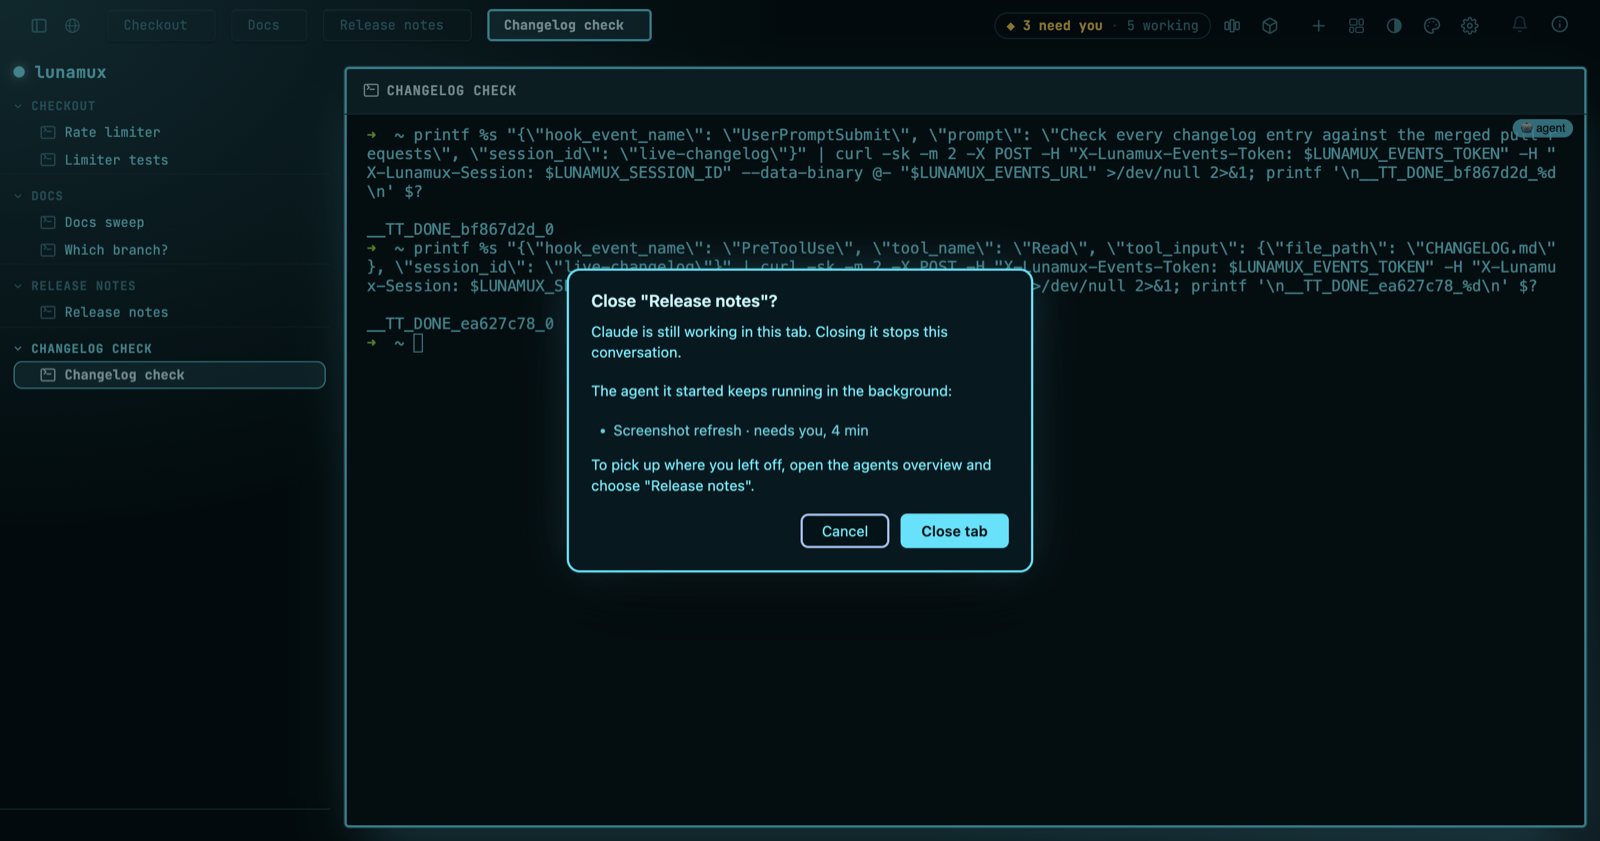
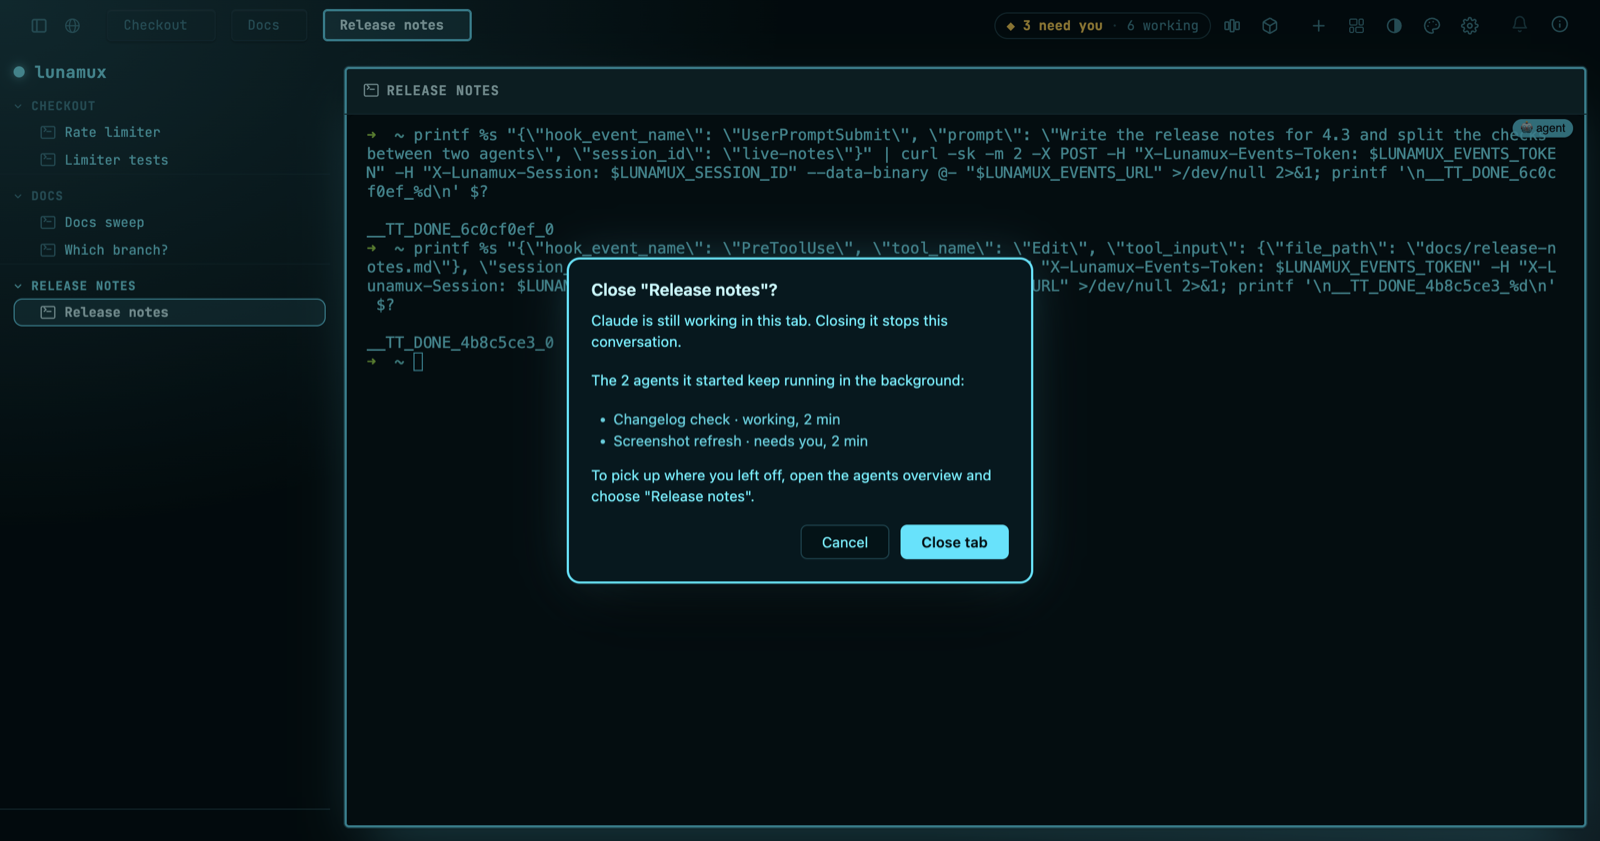
Answer round 1: a session follows its pane, the header says what enter does, restarts drop background tabs
A session's background flag now follows its pane on every poll, so a pane moved into or out of a
background tab is hidden from, or found by, search and jumped to or peeked correctly.

A task whose own session has ended no longer reads "jump": the header's label, its peek target and
enter all follow the same rule (open or resume when the own session exists but is not live).

A server restart closes background tabs (the agents in them ended with the old process) and keeps
their ids reserved; create_tab's description and docs/tasks.md say the opening agent closes its own
background tab. docs/tasks.md no longer says a restart forgets a task's own session: it resolves to
the ended record and enter resumes it.

Adds the OverviewBackingViewModel test for the shared tab list, removes the dead
backgroundSessionIds and the unused close-with-question path in LayoutViewModel and
AppBackingViewModel, corrects the TabCloseGuard KDoc, drives the live seed with create_task then
create_window(background, taskId) twice, and re-shoots the close dialog with the plural wording.

diff --git a/client/src/jvmTest/kotlin/se/soderbjorn/lunamux/client/viewmodel/OverviewBackingViewModelBackgroundTest.kt b/client/src/jvmTest/kotlin/se/soderbjorn/lunamux/client/viewmodel/OverviewBackingViewModelBackgroundTest.kt
@@ -1,0 +1,67 @@
+/**
+ * Checks that the tab list [OverviewBackingViewModel] builds for the phone and tablet overview
+ * leaves out background tabs while it still shows a hidden tab that is the active one.
+ *
+ * The view model reads its layout from a [WindowSocket]; the test feeds it a minimal fake whose
+ * layout it can replace, collects [OverviewBackingViewModel.run] on an unconfined dispatcher and
+ * reads [OverviewBackingViewModel.stateFlow].
+ *
+ * @see OverviewBackingViewModel
+ * @see se.soderbjorn.lunamux.listedTabs
+ */
+package se.soderbjorn.lunamux.client.viewmodel
+
+import kotlinx.coroutines.Dispatchers
+import kotlinx.coroutines.ExperimentalCoroutinesApi
+import kotlinx.coroutines.flow.MutableSharedFlow
+import kotlinx.coroutines.flow.MutableStateFlow
+import kotlinx.coroutines.flow.SharedFlow
+import kotlinx.coroutines.flow.StateFlow
+import kotlinx.coroutines.launch
+import kotlinx.coroutines.runBlocking
+import se.soderbjorn.lunamux.TabConfig
+import se.soderbjorn.lunamux.WindowCommand
+import se.soderbjorn.lunamux.WindowConfig
+import se.soderbjorn.lunamux.WindowEnvelope
+import se.soderbjorn.lunamux.client.WindowSocket
+import kotlin.test.Test
+import kotlin.test.assertEquals
+
+/** A socket that holds one layout and never sends anything. */
+private class FixedSocket(layout: WindowConfig) : WindowSocket {
+    override val config: StateFlow<WindowConfig?> = MutableStateFlow(layout)
+    override val states: StateFlow<Map<String, String?>> = MutableStateFlow(emptyMap())
+    override val envelopes: SharedFlow<WindowEnvelope> = MutableSharedFlow()
+    override val connected: StateFlow<Boolean> = MutableStateFlow(true)
+    override suspend fun awaitInitialConfig() {}
+    override suspend fun awaitSessionReady() {}
+    override suspend fun send(command: WindowCommand) {}
+    override suspend fun close() {}
+}
+
+class OverviewBackingViewModelBackgroundTest {
+
+    private fun tabsShown(layout: WindowConfig): List<String> = runBlocking {
+        val vm = OverviewBackingViewModel(FixedSocket(layout))
+        val job = launch(@OptIn(ExperimentalCoroutinesApi::class) Dispatchers.Unconfined) { vm.run() }
+        val ids = vm.stateFlow.value.tabs.map { it.id }
+        job.cancel()
+        ids
+    }
+
+    private val tabs = listOf(
+        TabConfig(id = "a", title = "Docs"),
+        TabConfig(id = "b", title = "Agent work", isBackground = true),
+        TabConfig(id = "c", title = "Scratch", isHidden = true),
+    )
+
+    @Test
+    fun `the tab list leaves out a background tab and a hidden tab that is not active`() {
+        assertEquals(listOf("a"), tabsShown(WindowConfig(tabs = tabs, activeTabId = "a")))
+    }
+
+    @Test
+    fun `the tab list keeps a hidden tab while it is the active one but never a background tab`() {
+        assertEquals(listOf("a", "c"), tabsShown(WindowConfig(tabs = tabs, activeTabId = "c")))
+    }
+}

diff --git a/server/src/main/kotlin/se/soderbjorn/lunamux/WindowState.kt b/server/src/main/kotlin/se/soderbjorn/lunamux/WindowState.kt
@@ -354,10 +354,14 @@ object WindowState {
             }
         }
 
-        fun rebuildTab(tab: TabConfig): TabConfig {
+        fun trackTabId(tab: TabConfig) {
             // Same nonce-aware numeric extraction as [trackNodeId].
             tab.id.removePrefix("t").substringBefore('-').toLongOrNull()
                 ?.let { if (it > maxTabId) maxTabId = it }
+        }
+
+        fun rebuildTab(tab: TabConfig): TabConfig {
+            trackTabId(tab)
             val rebuiltPanes = tab.panes.mapNotNull { p ->
                 val rebuilt = rebuildLeaf(p.leaf) ?: return@mapNotNull null
                 val box = PaneGeometry.normalize(p.x, p.y, p.width, p.height)
@@ -376,11 +380,20 @@ object WindowState {
         val rebuiltWorlds = loaded.worlds.map { world ->
             world.id.removePrefix("w").substringBefore('-').toLongOrNull()
                 ?.let { if (it > maxWorldId) maxWorldId = it }
-            val rebuiltTabs = world.tabs.map { rebuildTab(it) }
+            // A background tab exists for the agent that opened it, and that agent died with the old
+            // process. Rebuilt, it would be a shell nobody can see or close, so it is dropped; its
+            // ids are still counted so none is handed out again.
+            val rebuiltTabs = world.tabs.mapNotNull { tab ->
+                if (tab.isBackground) {
+                    trackTabId(tab)
+                    tab.panes.forEach { trackNodeId(it.leaf.id) }
+                    null
+                } else rebuildTab(tab)
+            }
             val tabIdSet = rebuiltTabs.mapTo(HashSet()) { it.id }
             world.copy(
                 tabs = rebuiltTabs,
-                activeTabId = world.activeTabId?.takeIf { id -> id in tabIdSet && rebuiltTabs.none { it.id == id && it.isBackground } },
+                activeTabId = world.activeTabId?.takeIf { id -> id in tabIdSet },
             )
         }
 
@@ -545,19 +558,6 @@ object WindowState {
      */
     fun isBackgroundTab(tabId: String): Boolean = synchronized(this) {
         allTabs(_config.value).any { it.id == tabId && it.isBackground }
-    }
-
-    /**
-     * The terminal session ids of every pane that sits in a background tab.
-     *
-     * Called by the agent session tracker to mark the records of sessions that run out of sight.
-     *
-     * @return the session ids; panes without a session (file browsers, say) contribute none.
-     */
-    fun backgroundSessionIds(): Set<String> = synchronized(this) {
-        allTabs(_config.value).filter { it.isBackground }
-            .flatMap { tab -> tab.panes.mapNotNull { it.leaf.sessionId.takeIf { id -> id.isNotEmpty() } } }
-            .toSet()
     }
 
     /**

diff --git a/client/src/commonMain/kotlin/se/soderbjorn/lunamux/client/viewmodel/AgentsOverviewBackingViewModel.kt b/client/src/commonMain/kotlin/se/soderbjorn/lunamux/client/viewmodel/AgentsOverviewBackingViewModel.kt
@@ -312,9 +312,11 @@ class AgentsOverviewBackingViewModel(
      *   other labels as the file gave them, paused, done, with empty counts left out; empty when
      *   every session needs the user.
      * @property expanded whether every session shows rather than only those that need the user or work.
-     * @property jumpRecordId the record of the live session that most needs the person, which ↵ on
-     *   the header jumps to: the ◆ that has waited longest, else the working session with the
-     *   freshest sign of life; null when no session of the task is open.
+     * @property jumpRecordId the record of the live session ↵ on the header jumps to: the task's own
+     *   session when it has one and its pane is open; otherwise (a task with none) the ◆ that has
+     *   waited longest, else the working session with the freshest sign of life. Null when no such
+     *   session is open, including when the own session has ended: the header then offers `open` or
+     *   `resume`, never `jump`.
      * @property hasOpen whether the task file gives an `open` action: ↵ on the header runs it when
      *   no session is open, and the header always offers it as its own `open` control.
      * @property activityMillis the latest sign of life among the working sessions (see
@@ -1349,14 +1351,16 @@ class AgentsOverviewBackingViewModel(
         val graced = (ended || settled) && inGrace(recency, nowMillis)
         return TaskUnit(
             t, runs, panel, rank, since, ended, settled, recency, graced,
-            if (leadLive) lead!!.id else jump?.session?.id, inNow, started,
+            // With an own session the header follows it alone: a task whose own session has ended
+            // offers open or resume, even while another member runs.
+            if (lead != null) lead.id.takeIf { leadLive } else jump?.session?.id, inNow, started,
             lead?.id, leadLive, leadLive && lead!!.background,
         )
     }
 
     /** The record behind [row] that peek and inspection ask the server about, or null when there is none. */
     private fun recordIdOf(row: Row, tasks: Map<String, Task>): String? = when {
-        row.kind == RowKind.TASK -> tasks[row.taskId]?.jumpRecordId
+        row.kind == RowKind.TASK -> tasks[row.taskId]?.let { it.leadRecordId ?: it.jumpRecordId }
         row.kind == RowKind.SESSION && !row.unhosted -> row.id
         else -> null
     }

diff --git a/client/src/commonMain/kotlin/se/soderbjorn/lunamux/client/viewmodel/LayoutViewModel.kt b/client/src/commonMain/kotlin/se/soderbjorn/lunamux/client/viewmodel/LayoutViewModel.kt
@@ -10,21 +10,16 @@
 package se.soderbjorn.lunamux.client.viewmodel
 
 import se.soderbjorn.lunamux.WindowCommand
-import se.soderbjorn.lunamux.client.TabCloseCheck
 import se.soderbjorn.lunamux.client.WindowSocket
-import se.soderbjorn.lunamux.client.WindowStateRepository
-import se.soderbjorn.lunamux.client.closeTabAsking
 
 /**
  * Routes layout commands (tabs, panes, geometry, focus) to the server
  * via [windowSocket].
  *
  * @param windowSocket the live `/window` WebSocket for sending commands.
- * @param windowState where the layout, sessions and tasks are read from when a tab close asks first.
  */
 internal class LayoutViewModel(
     private val windowSocket: WindowSocket,
-    private val windowState: WindowStateRepository? = null,
 ) {
     /** Tell the server to switch to tab [tabId]. */
     suspend fun setActiveTab(tabId: String) {
@@ -41,23 +36,9 @@ internal class LayoutViewModel(
         windowSocket.send(WindowCommand.AddTab)
     }
 
-    /**
-     * Close tab [tabId] and all panes within it.
-     *
-     * With [ask], a tab that has an agent working in it is closed only if [ask] answers true for
-     * the question the tab close guard builds; without it (a screen that asks for itself) the tab
-     * closes at once.
-     *
-     * @param tabId the tab to close.
-     * @param ask shows the question and returns whether the person chose to close, or null to close without asking.
-     * @return true when the close was sent, false when the person kept the tab.
-     * @see se.soderbjorn.lunamux.client.TabCloseGuard
-     */
-    suspend fun closeTab(tabId: String, ask: (suspend (TabCloseCheck) -> Boolean)? = null): Boolean {
-        val state = windowState
-        if (ask != null && state != null) return closeTabAsking(state, tabId, { windowSocket.send(it) }, ask)
+    /** Close tab [tabId] and all panes within it. */
+    suspend fun closeTab(tabId: String) {
         windowSocket.send(WindowCommand.CloseTab(tabId = tabId))
-        return true
     }
 
     /** Rename tab [tabId] to [title]. */

diff --git a/client/src/commonMain/kotlin/se/soderbjorn/lunamux/client/TabCloseGuard.kt b/client/src/commonMain/kotlin/se/soderbjorn/lunamux/client/TabCloseGuard.kt
@@ -5,7 +5,7 @@
  * [TabCloseGuard.check] says whether that would happen and, if so, what the person should be told:
  * which agent stops, which agents the closed tab's conversation started that keep running in
  * background tabs, and how to pick the work up again. The screens draw the question; this file
- * holds the facts and the exact words, so every screen asks the same thing.
+ * holds the facts and the exact words, so every screen that asks says the same thing.
  *
  * The check is for closes a person starts (the tab's × in the strip, the tab list's close). An
  * agent closing a tab through MCP does not ask, and closing a single pane is not checked.
@@ -79,7 +79,8 @@ data class TabCloseCheck(
 /**
  * Decides whether closing a tab needs the person's say-so.
  *
- * Used by [closeTabAsking], which every person-initiated tab close goes through.
+ * Used by [closeTabAsking], which the web's person-initiated tab closes go through. The Android
+ * screens close a tab with [PaneActions.closeTab] and do not ask yet.
  *
  * @see TabCloseCheck
  */
@@ -144,8 +145,8 @@ object TabCloseGuard {
  * Close [tabId] after asking, when the check says a working agent would stop.
  *
  * A tab with nothing working in it closes at once. Otherwise [ask] shows the question and the
- * tab closes only if it answers true. Called by every screen that closes a tab for a person:
- * the web tab strip and the 3D view, and any screen that wants the same question.
+ * tab closes only if it answers true. Called by the web tab strip and the web 3D view's remove,
+ * and by any screen that wants the same question.
  *
  * @param windowState where the layout, sessions and tasks are read from.
  * @param tabId the tab to close.

diff --git a/client/src/commonMain/kotlin/se/soderbjorn/lunamux/client/viewmodel/AppBackingViewModel.kt b/client/src/commonMain/kotlin/se/soderbjorn/lunamux/client/viewmodel/AppBackingViewModel.kt
@@ -47,7 +47,7 @@ class AppBackingViewModel(
     private val windowState: WindowStateRepository,
     private val settingsPersister: SettingsPersister? = null,
 ) {
-    private val layout = LayoutViewModel(windowSocket, windowState)
+    private val layout = LayoutViewModel(windowSocket)
     private val settings = SettingsViewModel(settingsPersister)
     private val sessionState = SessionStateViewModel(windowSocket, windowState)
 
@@ -416,23 +416,9 @@ class AppBackingViewModel(
     @Throws(CancellationException::class, Exception::class)
     suspend fun addTab() = layout.addTab()
 
-    /** Close tab [tabId] and all panes within it, without asking. */
+    /** Close tab [tabId] and all panes within it. */
     @Throws(CancellationException::class, Exception::class)
-    suspend fun closeTab(tabId: String) {
-        layout.closeTab(tabId)
-    }
-
-    /**
-     * Close tab [tabId] after asking when an agent is working in it.
-     *
-     * @param tabId the tab to close.
-     * @param ask shows the question the guard built and returns whether the person chose to close.
-     * @return true when the close was sent, false when the person kept the tab.
-     * @see se.soderbjorn.lunamux.client.TabCloseGuard
-     */
-    @Throws(CancellationException::class, Exception::class)
-    suspend fun closeTab(tabId: String, ask: suspend (se.soderbjorn.lunamux.client.TabCloseCheck) -> Boolean): Boolean =
-        layout.closeTab(tabId, ask)
+    suspend fun closeTab(tabId: String) = layout.closeTab(tabId)
 
     /** Rename tab [tabId] to [title]. */
     @Throws(CancellationException::class, Exception::class)

diff --git a/server/src/test/kotlin/se/soderbjorn/lunamux/mcp/McpTaskMetaTest.kt b/server/src/test/kotlin/se/soderbjorn/lunamux/mcp/McpTaskMetaTest.kt
@@ -204,6 +204,26 @@ class McpTaskMetaTest {
     }
 
     @Test
+    fun `after a server restart the own session resolves to its ended record, so enter resumes it`() {
+        session("boss")
+        val id = create("Work", "[\"boss\"]")["taskId"]!!.jsonPrimitive.content
+        val record = taskInState(id).leadRecordId
+        assertNotNull(record)
+
+        // A restart: the tracker ends the records the old process left open and loads them again.
+        now += 60_000
+        var next = 100
+        val restarted = AgentSessionTracker(
+            repo, gitInfo = { GitInfo() }, clock = { now }, newId = { "n${++next}" },
+        ).also { it.start() }
+        val reopened = TaskIndex(repo, restarted, files, leafOfSession = { null }, clock = { now })
+
+        val after = reopened.state.value.tasks.single { it.id == id }
+        assertEquals(record, after.leadRecordId, "the ended record is found by the pane id the task remembers")
+        assertEquals("ended", restarted.snapshot().single { it.id == record }.state)
+    }
+
+    @Test
     fun `a task's start is the earliest session start, stamped once and never moved`() {
         session("early"); session("late")
         val early = tracker.openRecordOf("early")!!.createdAt

diff --git a/client/src/commonTest/kotlin/se/soderbjorn/lunamux/client/viewmodel/AgentsOverviewTasksViewModelTest.kt b/client/src/commonTest/kotlin/se/soderbjorn/lunamux/client/viewmodel/AgentsOverviewTasksViewModelTest.kt
@@ -1459,6 +1459,9 @@ class AgentsOverviewTasksViewModelTest {
         )
         vm.open()
         vm.select("task:g1")
+        val header = vm.state.rows.first { it.id == "task:g1" }
+        assertEquals("open", header.actionLabel, "the label says what ↵ does, not jump")
+        assertFalse(header.isLive)
         vm.activateSelected()
         assertEquals(listOf<WindowCommand>(WindowCommand.OpenTask("g1")), sent)
     }
@@ -1473,6 +1476,11 @@ class AgentsOverviewTasksViewModelTest {
         )
         vm.open()
         vm.select("task:g1")
+        val header = vm.state.rows.first { it.id == "task:g1" }
+        assertEquals("resume", header.actionLabel, "the label says what ↵ does, not jump")
+        assertFalse(header.isLive)
+        assertEquals("lead", vm.state.tasks.getValue("g1").leadRecordId)
+        assertEquals(null, vm.state.tasks.getValue("g1").jumpRecordId)
         vm.activateSelected()
         assertEquals(listOf<WindowCommand>(WindowCommand.ResumeAgentSession("lead")), sent)
     }

diff --git a/server/src/test/kotlin/se/soderbjorn/lunamux/AgentSessionBackgroundTest.kt b/server/src/test/kotlin/se/soderbjorn/lunamux/AgentSessionBackgroundTest.kt
@@ -54,6 +54,21 @@ class AgentSessionBackgroundTest {
     }
 
     @Test
+    fun `a session follows its pane into and out of a background tab`() {
+        val t = tracker()
+        t.onPoll(listOf(pane("s1", background = true), pane("s2", background = false)))
+
+        now = 2_000
+        t.onPoll(listOf(pane("s1", background = false), pane("s2", background = true)))
+        assertEquals(mapOf("r1" to false, "r2" to true), t.summaries.value.associate { it.id to it.background })
+        assertFalse(repo.findAgentSessionById("r1")!!.background, "the stored record moves with the pane")
+        assertTrue(repo.findAgentSessionById("r2")!!.background)
+
+        val restarted = tracker(SettingsRepository(dbFile))
+        assertFalse(restarted.summaries.value.any { it.state != "ended" })
+    }
+
+    @Test
     fun `a background session needing the person is a needs-you summary like any other`() {
         val t = tracker()
         t.onPoll(listOf(pane("s1", background = true, state = "waiting")))

diff --git a/server/src/main/kotlin/se/soderbjorn/lunamux/mcp/McpWriteTools.kt b/server/src/main/kotlin/se/soderbjorn/lunamux/mcp/McpWriteTools.kt
@@ -700,8 +700,8 @@ fun registerMcpWriteTools(settingsRepo: SettingsRepository, taskIndex: TaskIndex
             "it. Targets the active world unless a worldId is given. With background: true the " +
             "tab is a background tab instead: it is never switched to, never shown in the tab " +
             "strip or the layout the person sees, and never takes focus; it is meant for an " +
-            "agent working out of sight. Close it with close_tab when done; the person can " +
-            "take it over from the agents overview.",
+            "agent working out of sight. Close it with close_tab when done (a server restart " +
+            "closes background tabs too); the person can take it over from the agents overview.",
         inputSchema = schemaObject(
             "title" to schemaString("Optional tab title."),
             "worldId" to schemaString("World to create the tab in (default: active world)."),

diff --git a/server/src/main/kotlin/se/soderbjorn/lunamux/AgentSessionTracker.kt b/server/src/main/kotlin/se/soderbjorn/lunamux/AgentSessionTracker.kt
@@ -217,6 +217,12 @@ class AgentSessionTracker(
                 rec = rec.copy(title = name)
                 put(rec)
             }
+            // A pane can change tabs (a move, a take over): the record follows the tab it is in now,
+            // or search and the overview's jump would treat it as still where it was.
+            if (rec.background != pane.background) {
+                rec = rec.copy(background = pane.background)
+                put(rec)
+            }
             if (rec.source != SOURCE_SCREEN) {
                 // Claude Code sends no event when a permission prompt is approved, so
                 // a long tool would keep the row at needs_you until it finished. The

diff --git a/docs/tasks.md b/docs/tasks.md
@@ -48,8 +48,10 @@ idle, **‖** paused, **✓** done.
   behaviour: ↵ jumps to the open session that most needs the person (the ◆ that has waited
   longest, else the working session with the freshest sign of life); with no open session it runs
   the task's `open` action, if it has one; with neither it expands or collapses the panel. The
-  session is remembered by the pane it ran in, so a server restart forgets it until an agent names
-  it again.
+  session is remembered by the pane it ran in. A server restart keeps it: the session is then an
+  ended one and ↵ resumes it. It is lost only once that session is older than the history the
+  overview loads (14 days, or beyond the newest 300 sessions); the task then has no own session
+  until an agent names one again.
 - **A task has a one-line status.** An agent sets it with `set_task_status` and the header shows it
   after the counts (`1 needs you · Notes drafted, waiting on the changelog check`). Line breaks
   become spaces, the ends are trimmed, and at most 120 characters are kept. An empty text clears it.
@@ -73,7 +75,9 @@ idle, **‖** paused, **✓** done.
   peek of its screen, and **⌘↵ takes the tab over**: it becomes an ordinary tab, the app switches to
   it and the session is searchable again. The footer reads "↵ peek · ⌘↵ take over". × closes it
   with the same confirmation as any session. A search never finds a background session while it is
-  out of sight, live or closed.
+  out of sight, live or closed. A background tab is in no tab list, so the agent that opened it
+  closes it with `close_tab` when its work is done; a server restart closes every background tab,
+  as the agents in them ended with the old process.
 - **A session or task that has just ended stays in NOW for ten minutes.** With the ◆ above, this
   is the other thing in NOW that is in no tab: a session that has ended less than ten minutes ago,
   and a task that has just finished, so a row never reads "now" under a heading that says days.
